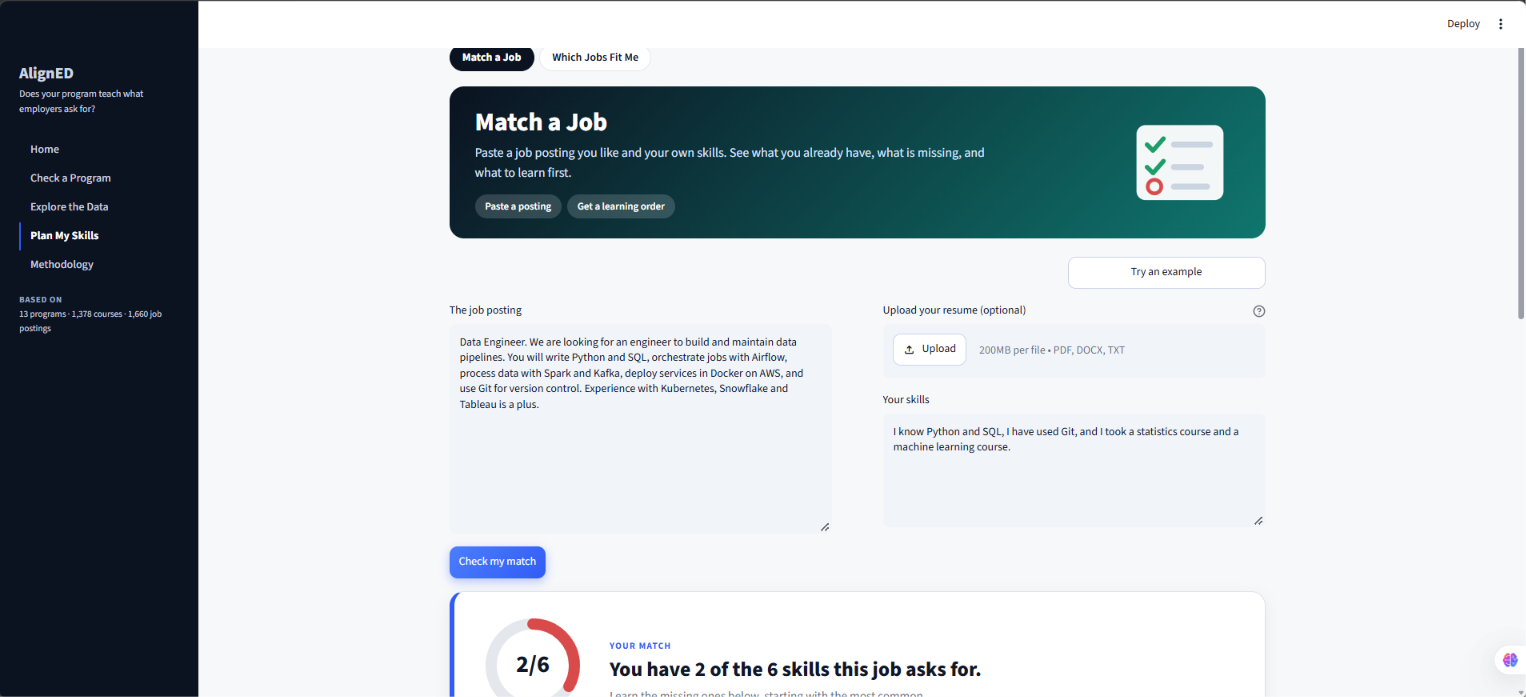
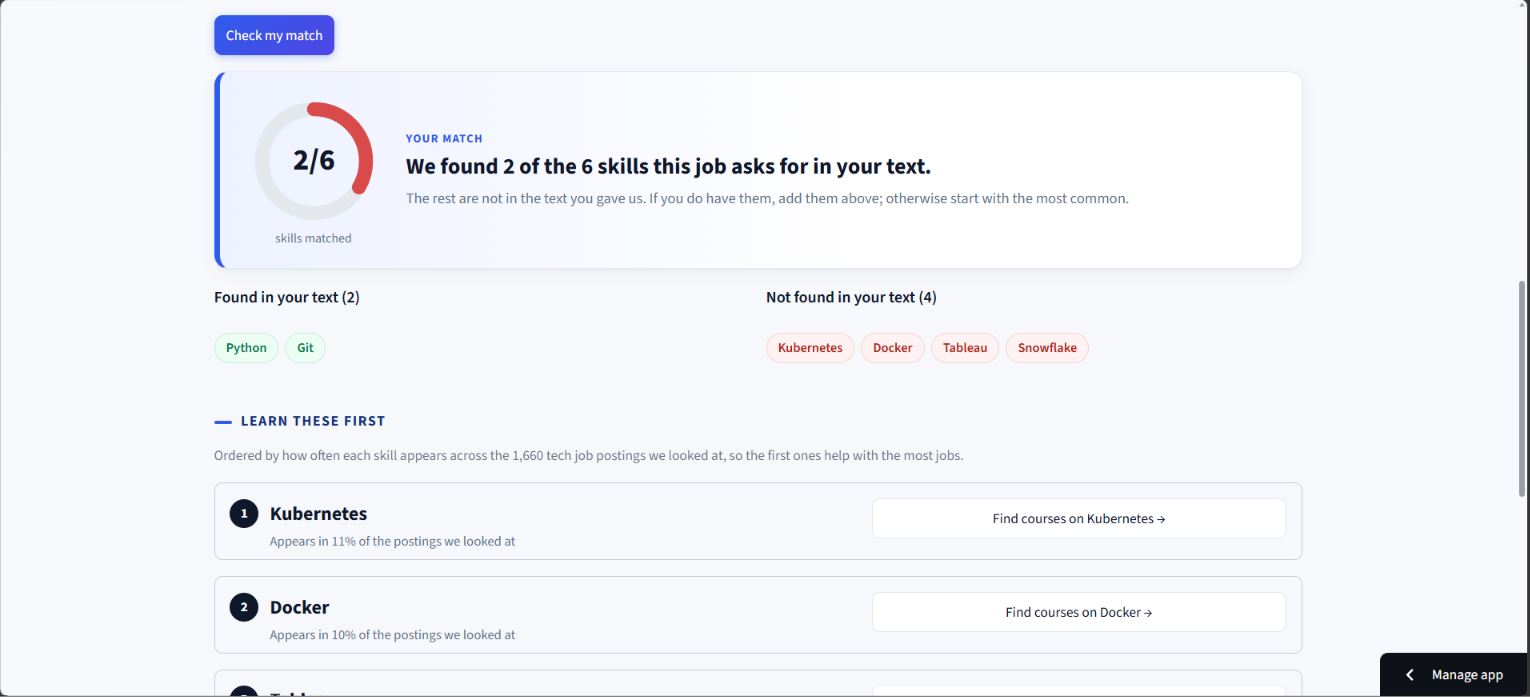
Add demo GIF, screenshots, test count, docs

diff --git a/docs/DEMO_SCRIPT.md b/docs/DEMO_SCRIPT.md
@@ -1,18 +1,33 @@
-# Loom demo script (about 90 seconds)
+# Demo video: narration script (about 1 minute 55 seconds, roughly 285 words)
 
-Record in Chrome at 1440 wide, browser zoom 100%, bookmarks bar hidden, notifications off. Open
-https://aligned-shravanikulkarni.streamlit.app first and let it wake up before you press record.
+Target length: 1:45 to 2:00. Portfolio and LinkedIn viewers rarely watch past two minutes. Keep the pace calm
+(about 150 words a minute) and pause a beat after each click so the screen can be read.
 
-| Time | On screen | Say |
+Before recording: open https://aligned-shravanikulkarni.streamlit.app, let it fully load, set the browser to
+100% zoom, hide the bookmarks bar, and close other tabs and notifications. Record at 1920x1080 if you can.
+
+| Time | On screen | Narration |
 |---|---|---|
-| 0:00 | Home page hero | "AlignED checks whether graduate programs teach what employers ask for. I compared 1,378 courses from 13 programs with 1,660 job postings, and tested every gap." |
-| 0:12 | Scroll to the Python card and the chart | "For example, Python is in 40% of postings and in none of 295 courses in this catalog. That gap is statistically significant, and it shows up in 10 of the 13 programs." |
-| 0:28 | Click Match, then Match a Job. Paste a real job posting from your target role, click check | "If you found a job you want, paste it. Here is what it asks for, what I already have, and what to learn first." |
-| 0:50 | Click Explore, then Skill Gaps | "Or pick a program and see the tested gaps with the evidence behind each one." |
-| 1:05 | Click Evidence, then Model Evaluation | "I also tested my own method. An LLM looked better on my tuning data, then lost on 50 unseen items, so I shipped the simpler keyword method." |
-| 1:20 | Click Data Health, then About | "A daily pipeline validates the job feed, and the code, tests and case study are on GitHub." |
-| 1:30 | Stop | |
+| 0:00 | Overview hero | "Hi, this is AlignED, a project that asks a simple question: do graduate computing programs actually teach what employers ask for? I compared one thousand three hundred seventy-eight course descriptions from thirteen programs with sixteen hundred sixty job postings, and I tested every difference instead of just ranking them." |
+| 0:22 | Scroll to the Python card and the chart | "Here is a real result. Python shows up in forty percent of the job postings, but in none of the two hundred ninety-five course descriptions in this catalog. That gap is statistically significant, and Python is a significant gap in ten of the thirteen programs." |
+| 0:42 | Click Match, then Try an example, then show the result ring | "If you found a job you want, paste it in here. I will use an example. The tool finds the skills the job asks for, shows which ones appear in your own skills, and tells you what to learn first, ordered by how common each skill is across real postings." |
+| 1:05 | Click Explore, Skill Gaps; scroll to the chart | "Or pick a program and see its tested gaps. This chart compares what employers ask for in blue with what courses name in green." |
+| 1:20 | Click Evidence, Model Evaluation, show the reversal chart | "The part I am most proud of is this. A language model looked better than my simple keyword matcher on the data I tuned it on. So I tested both on fifty new items, and the result flipped. The keyword method won, so that is what the project uses, and I published the result." |
+| 1:42 | Click Data Health, then About | "Behind the app is a daily pipeline that validates and deduplicates a live job feed, a database that enforces its own rules, and automated tests that run on every change." |
+| 1:55 | Overview hero | "The code, the case study, and the evaluation are all on GitHub. Thanks for watching." |
 
-Tips: pause two seconds after each click so people can read. Keep your cursor still while talking. Trim any loading
-spinners in Loom. Use a job posting that really does show a clear gap so the match result is interesting. Do not read the
-numbers off the screen word for word; say the one that matters and let the viewer see the rest.
+Word count is about 285. If a take runs long, cut the Data Health sentence first.
+
+## How to make it, step by step
+
+1. **Record the screen with no sound.** Use Loom, or the Windows Snipping Tool's screen recorder (Win+Shift+S, then the video
+   icon). Follow the "On screen" column. Do not talk while recording; you add the voice afterwards, which is far easier.
+2. **Make the voice.** Free options on Windows 11:
+   - **Microsoft Clipchamp** (already in Windows 11): import the video, add text to speech, paste each narration paragraph,
+     and choose a young American male voice (for example "Guy" or "Davis"). Place each clip at its time.
+   - **ElevenLabs** (free tier) or **Microsoft Edge Read Aloud**: generate the audio, then drop it into Clipchamp.
+   - Or use your own voice. A real voice usually feels more trustworthy to recruiters.
+3. **Trim and export.** Cut the waiting time and spinners, export at 1080p, and upload to YouTube (unlisted) or Loom.
+4. **Say it is synthetic.** If you use an AI voice, add "narrated with an AI voice" in the description. It costs
+   nothing and avoids any appearance of presenting someone else's voice as yours.
+5. **Add it everywhere:** top of the README, your portfolio project card, and the LinkedIn post.

diff --git a/README.md b/README.md
@@ -12,7 +12,7 @@
 
 > The live app runs on Streamlit's free tier. A scheduled job visits it every 8 hours to keep it awake; if it has still gone to sleep, the first load can take about 30 seconds. The screenshots and demo below show it without waiting.
 
-![AlignED home](docs/screenshots/home.png)
+![AlignED demo: overview, match a job, skill gaps, model evaluation](docs/demo.gif)
 
 **In one paragraph.** I compared 1,378 course descriptions from 13 graduate programs with 1,660 job postings. Skills are mapped to the O\*NET taxonomy, and each gap is tested (z-test or Fisher's exact test, Benjamini-Hochberg corrected). 170 gaps are statistically real. Python, for example, appears in 40% of sampled postings and in none of 295 course descriptions in one department catalog. A daily pipeline keeps a live job feed validated and deduplicated, and a held-out evaluation shows that a simple keyword method beat an LLM on data neither had seen.
 
@@ -40,8 +40,8 @@
 | Home | Skill Gaps |
 |---|---|
 | ![Home](docs/screenshots/home.png) | ![Skill Gaps](docs/screenshots/skill-gaps.png) |
-| **Match a Job** | **Which Jobs Fit Me** |
-| ![Match a Job](docs/screenshots/match-job.png) | ![Which Jobs Fit Me](docs/screenshots/fit-me.png) |
+| **Match a Job** | **Model Evaluation** |
+| ![Match a Job](docs/screenshots/match-job.png) | ![Model Evaluation](docs/screenshots/model-eval.png) |
 
 ## Key results
 
